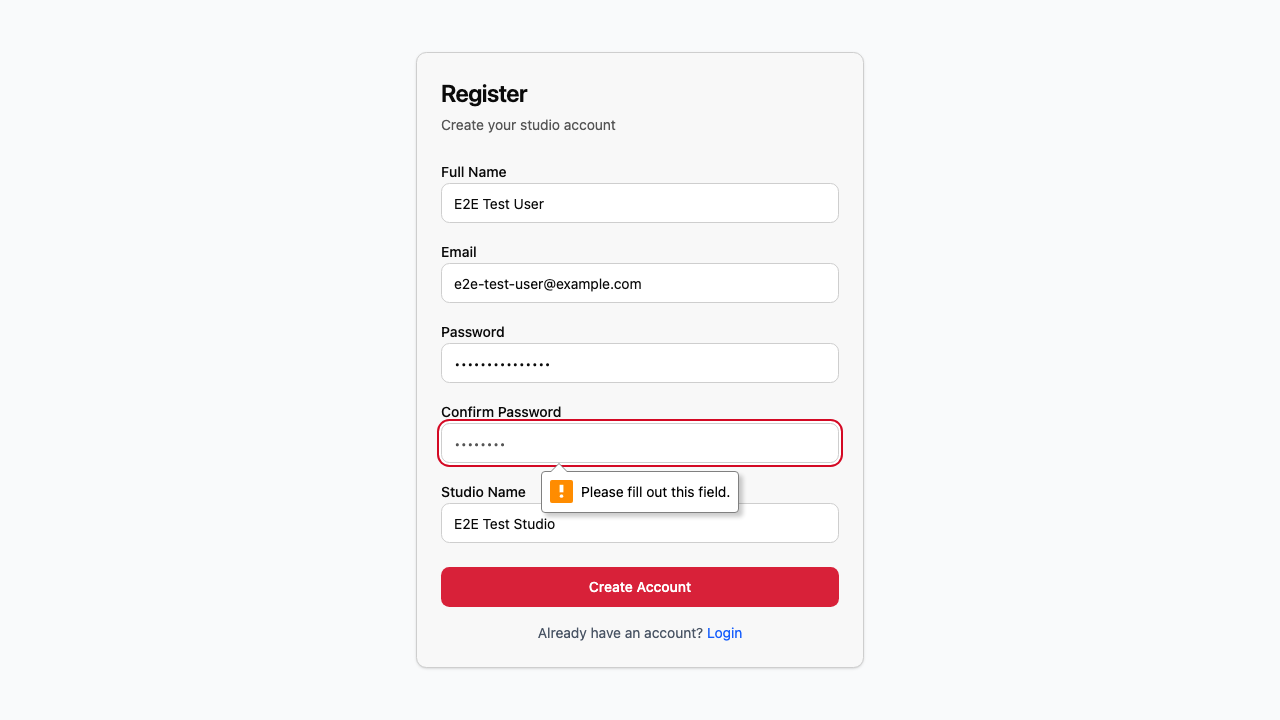
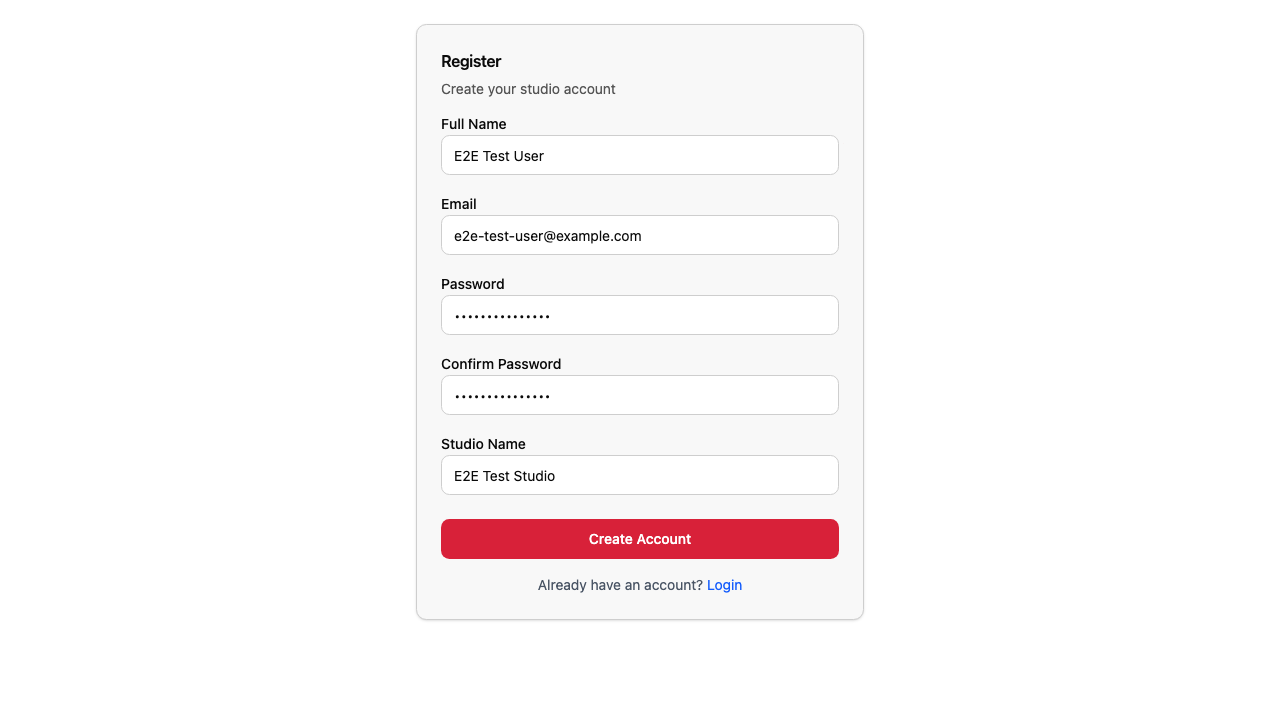
chore: Add .gitignore and dev improvements
- Add comprehensive .gitignore for temp files, test scripts, and build artifacts
- Add dev mode test headers to main.tsx for easier local testing (x-test-user-id, x-test-org-id)
- Optimize documentation screenshots (global-setup-*.png) for smaller file size
- Organize temp test scripts into scripts/temp-dev/ and e2e/temp-tests/

Temporary files now ignored:
- Database utility scripts (check-tenant*, create-tenant*, seed-timer*)
- E2E test experiments (test-phase12-*.spec.ts)
- Archives and backups (*.zip, *BU.zip)
- Git worktrees (.worktrees/)

diff --git a/packages/client/src/main.tsx b/packages/client/src/main.tsx
@@ -48,6 +48,14 @@ const trpcClient = trpc.createClient({
         return fetch(url, {
           ...options,
           credentials: 'include',
+          headers: {
+            ...options?.headers,
+            // Dev mode: bypass auth with test headers
+            ...(import.meta.env.DEV && {
+              'x-test-user-id': '1',
+              'x-test-org-id': '3',
+            }),
+          },
         })
       },
     }),
